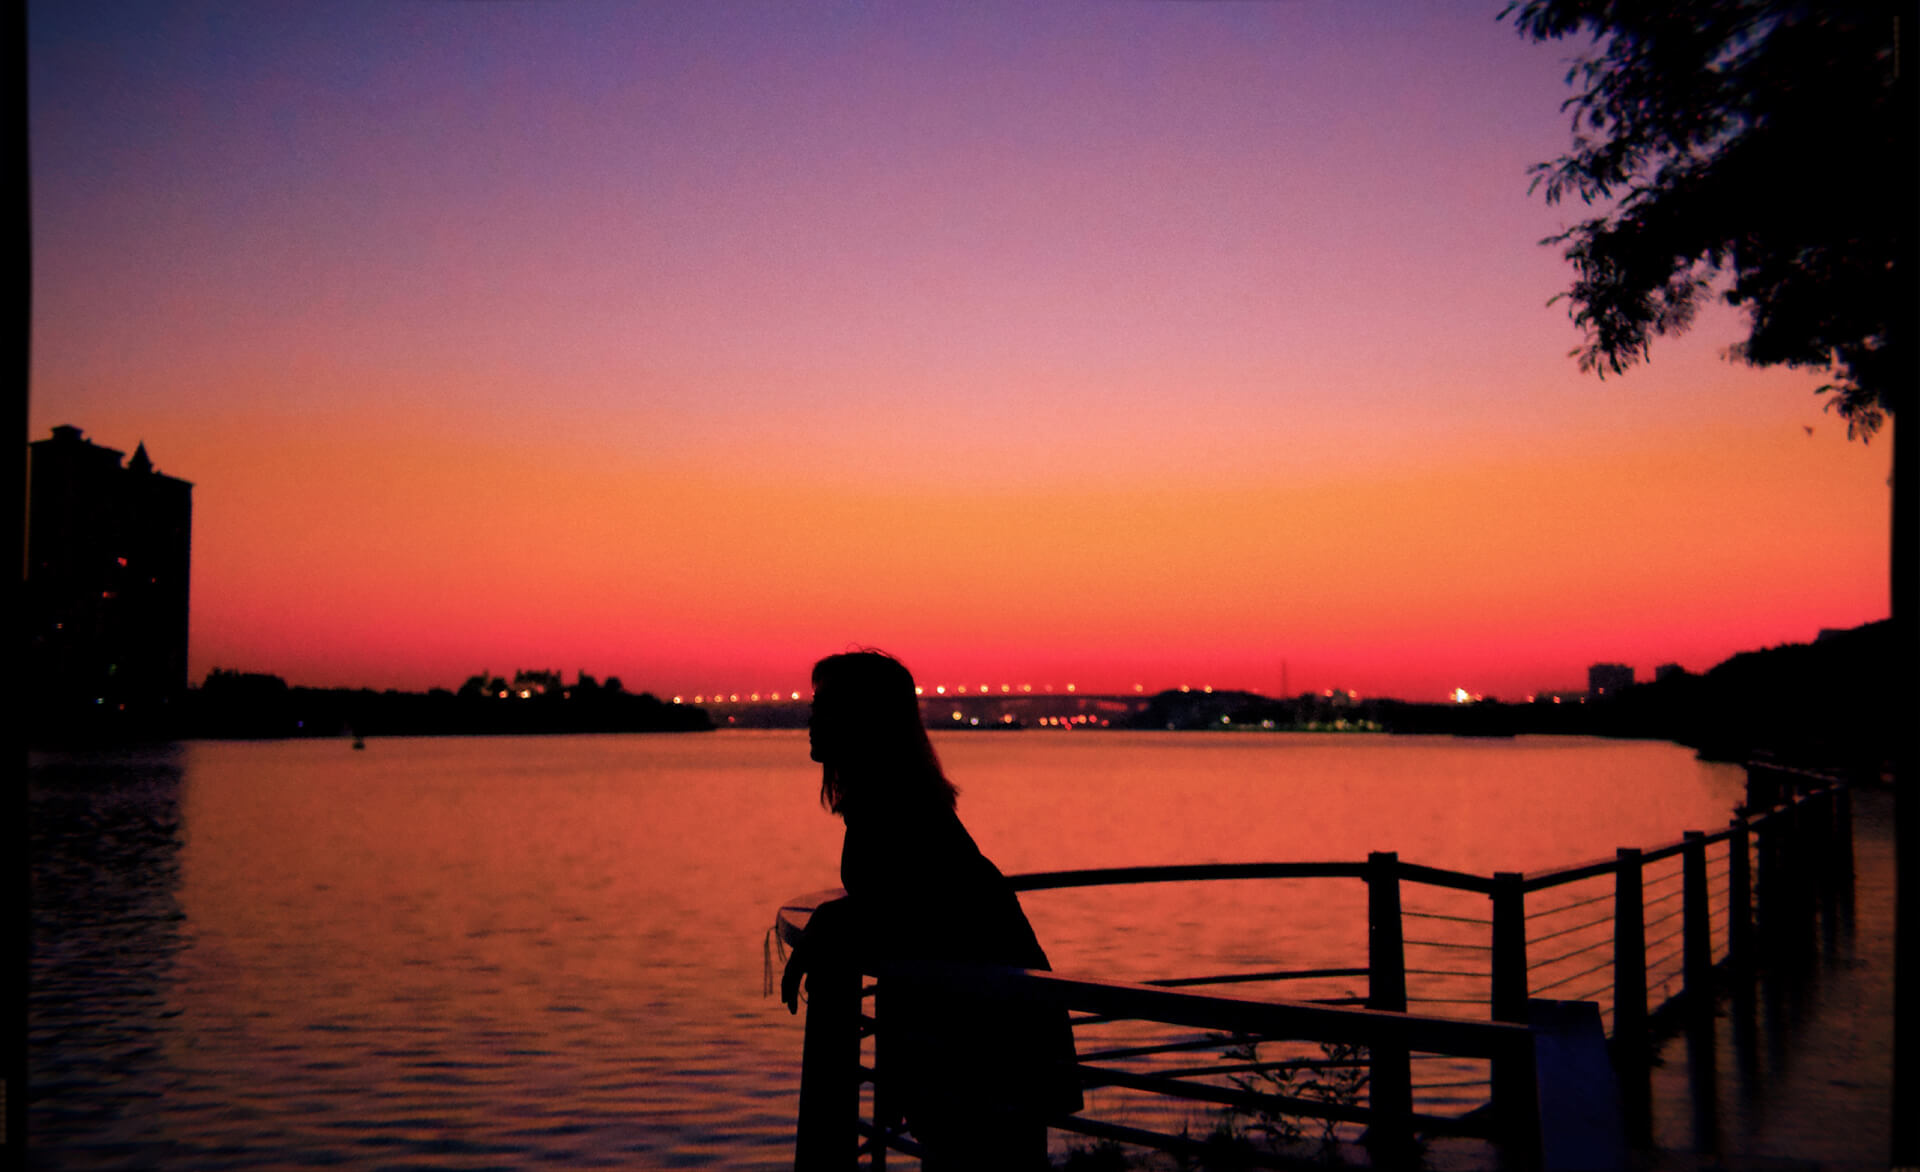
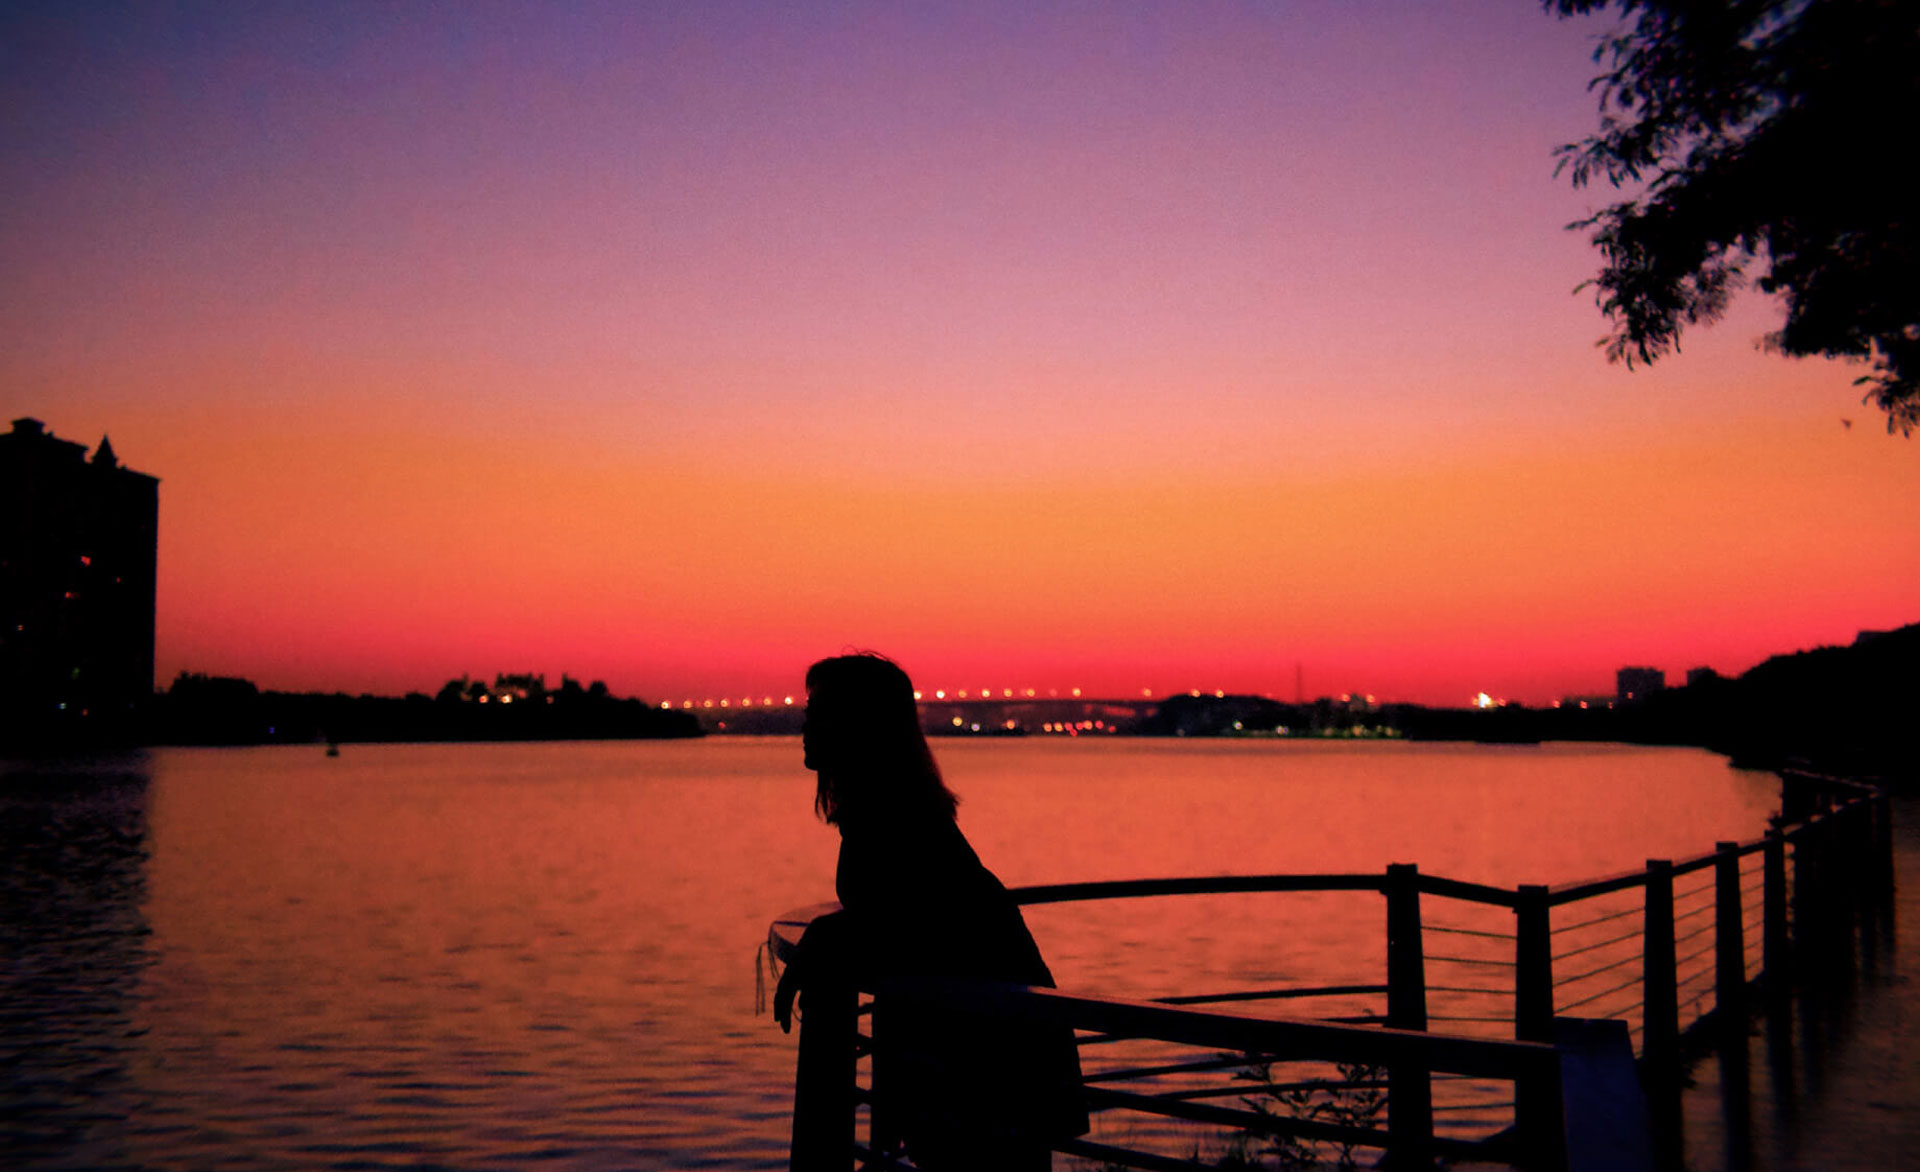
no message

Changed region(s): [[0.4688, 0.0, 1.0, 1.0], [0.0, 0.0, 0.5, 1.0]]

diff --git a/index.html b/index.html
@@ -16,7 +16,7 @@
             width: 100%;
             height: 100%;
             background:url(ziwei1920.jpg);
-            /*background-size: cover;*/
+            background-size: cover;
             font-size: 85%;
             margin: 0;
         }
